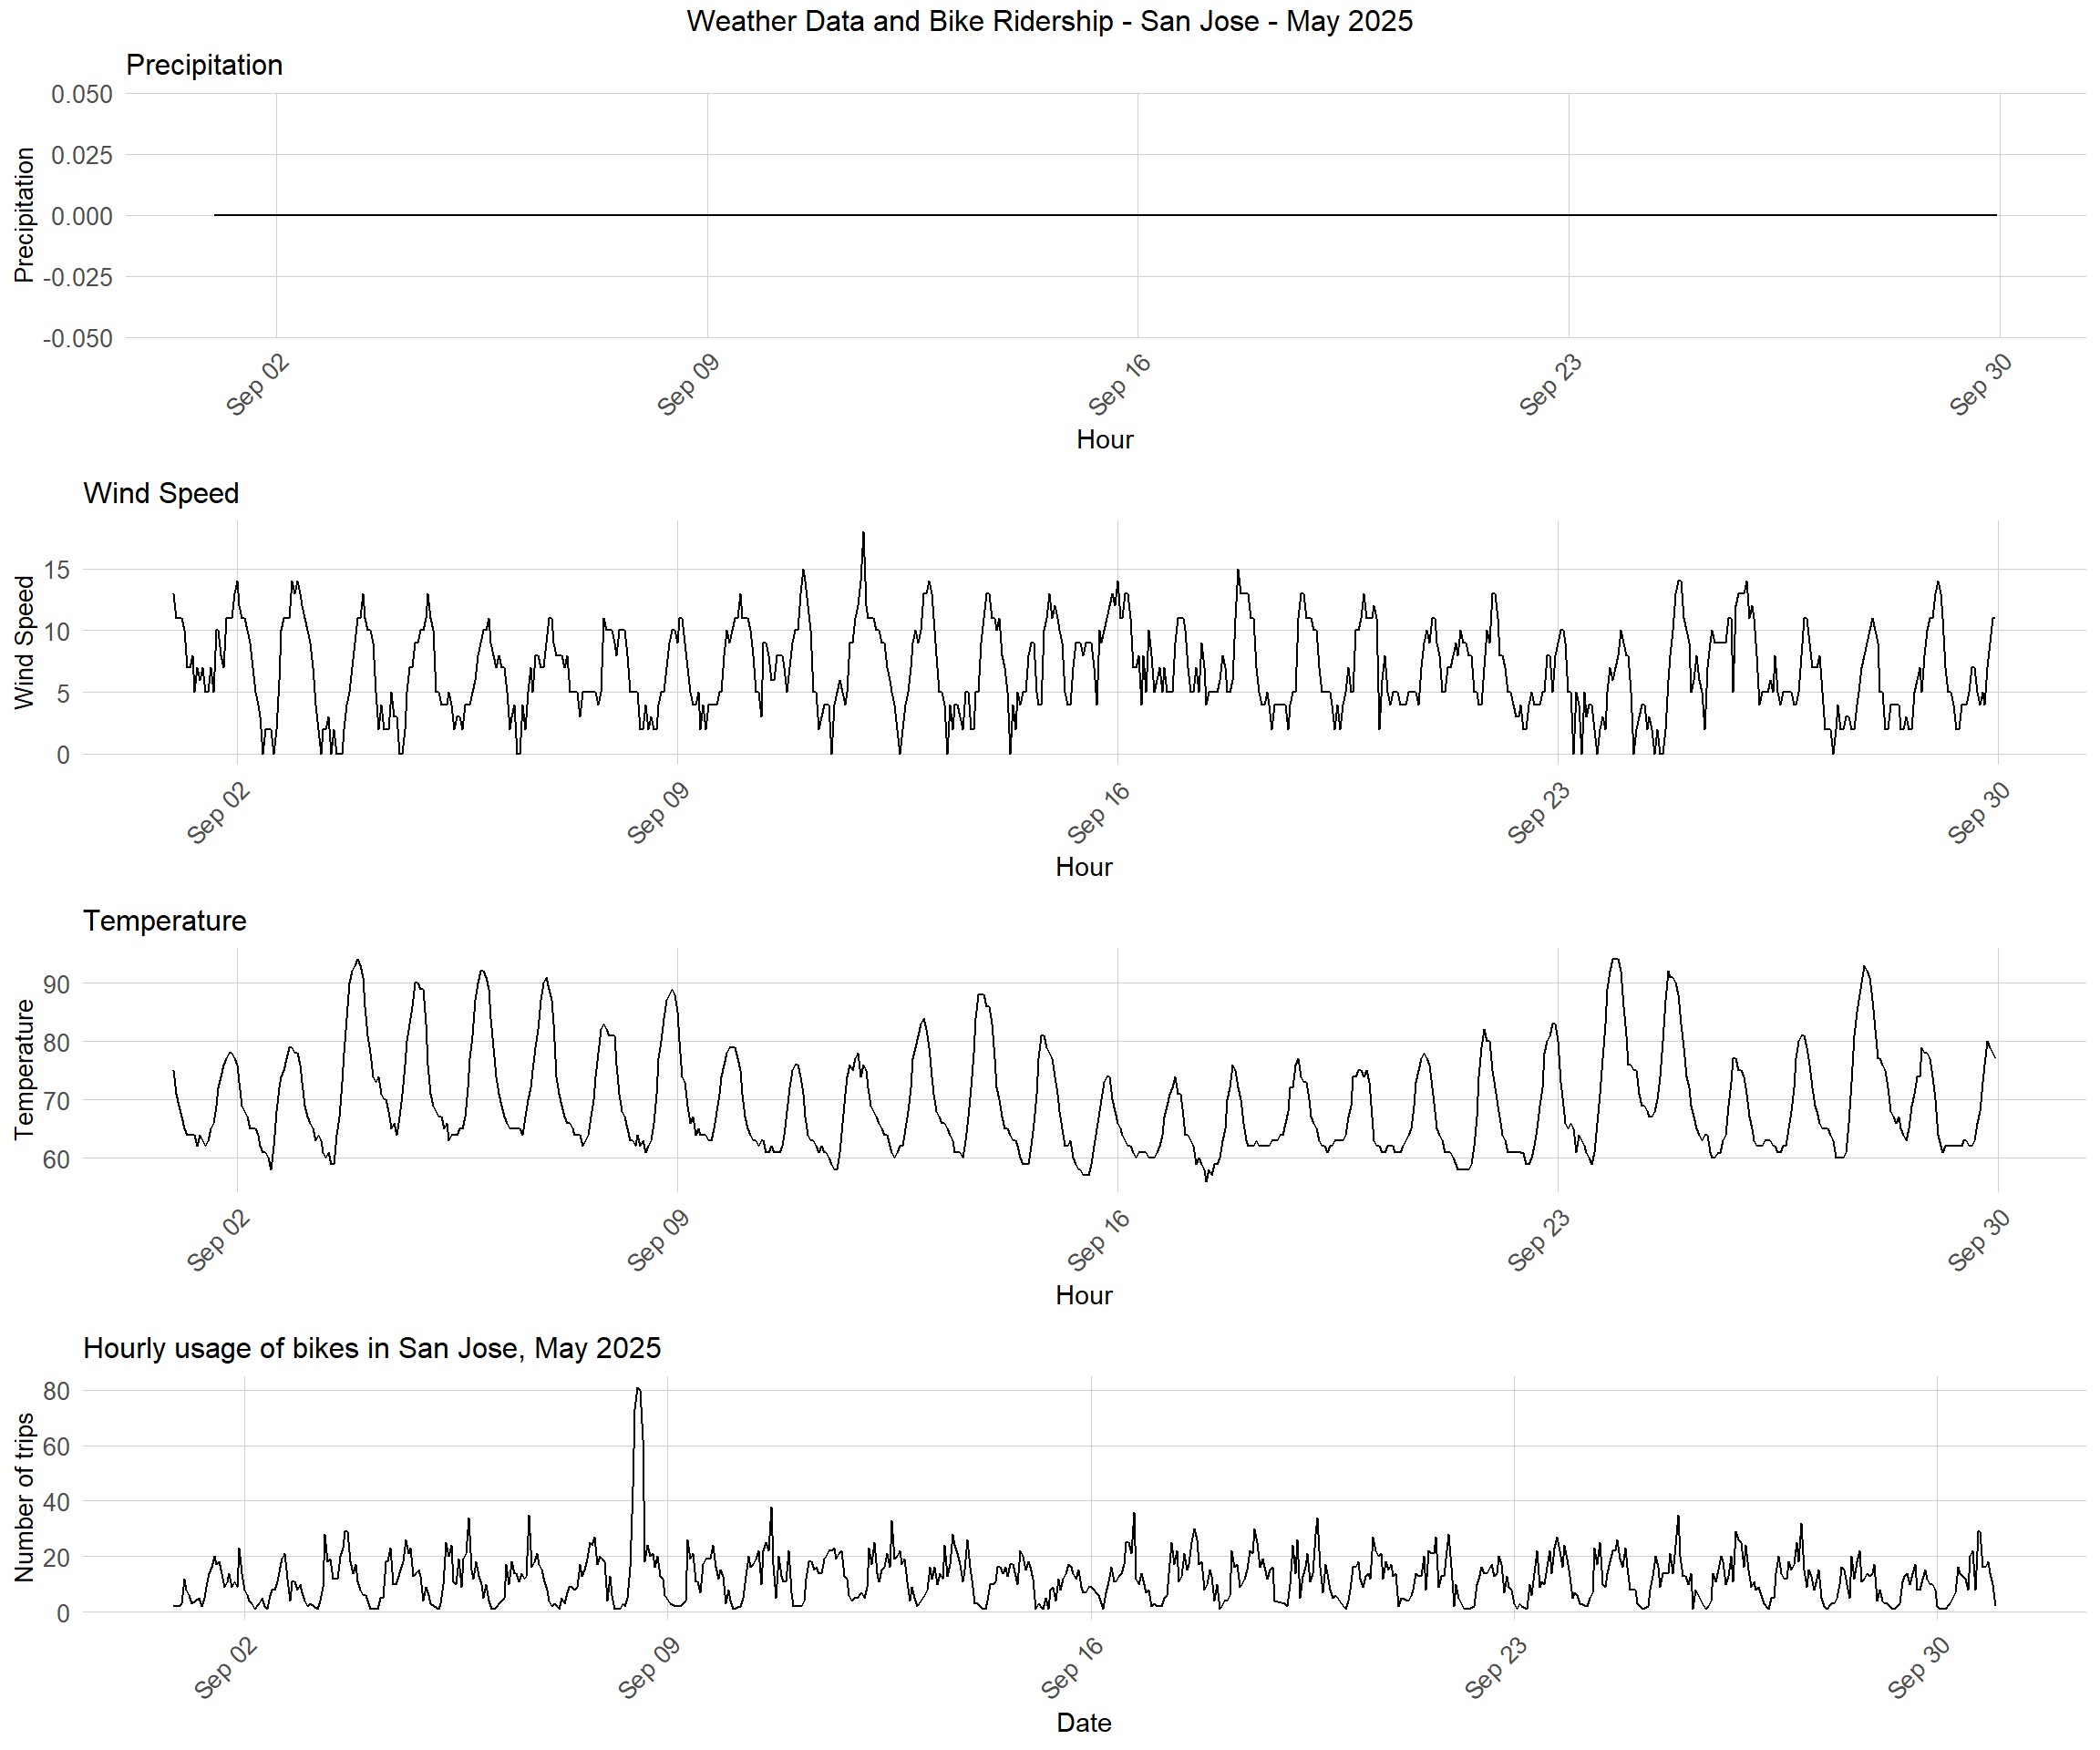
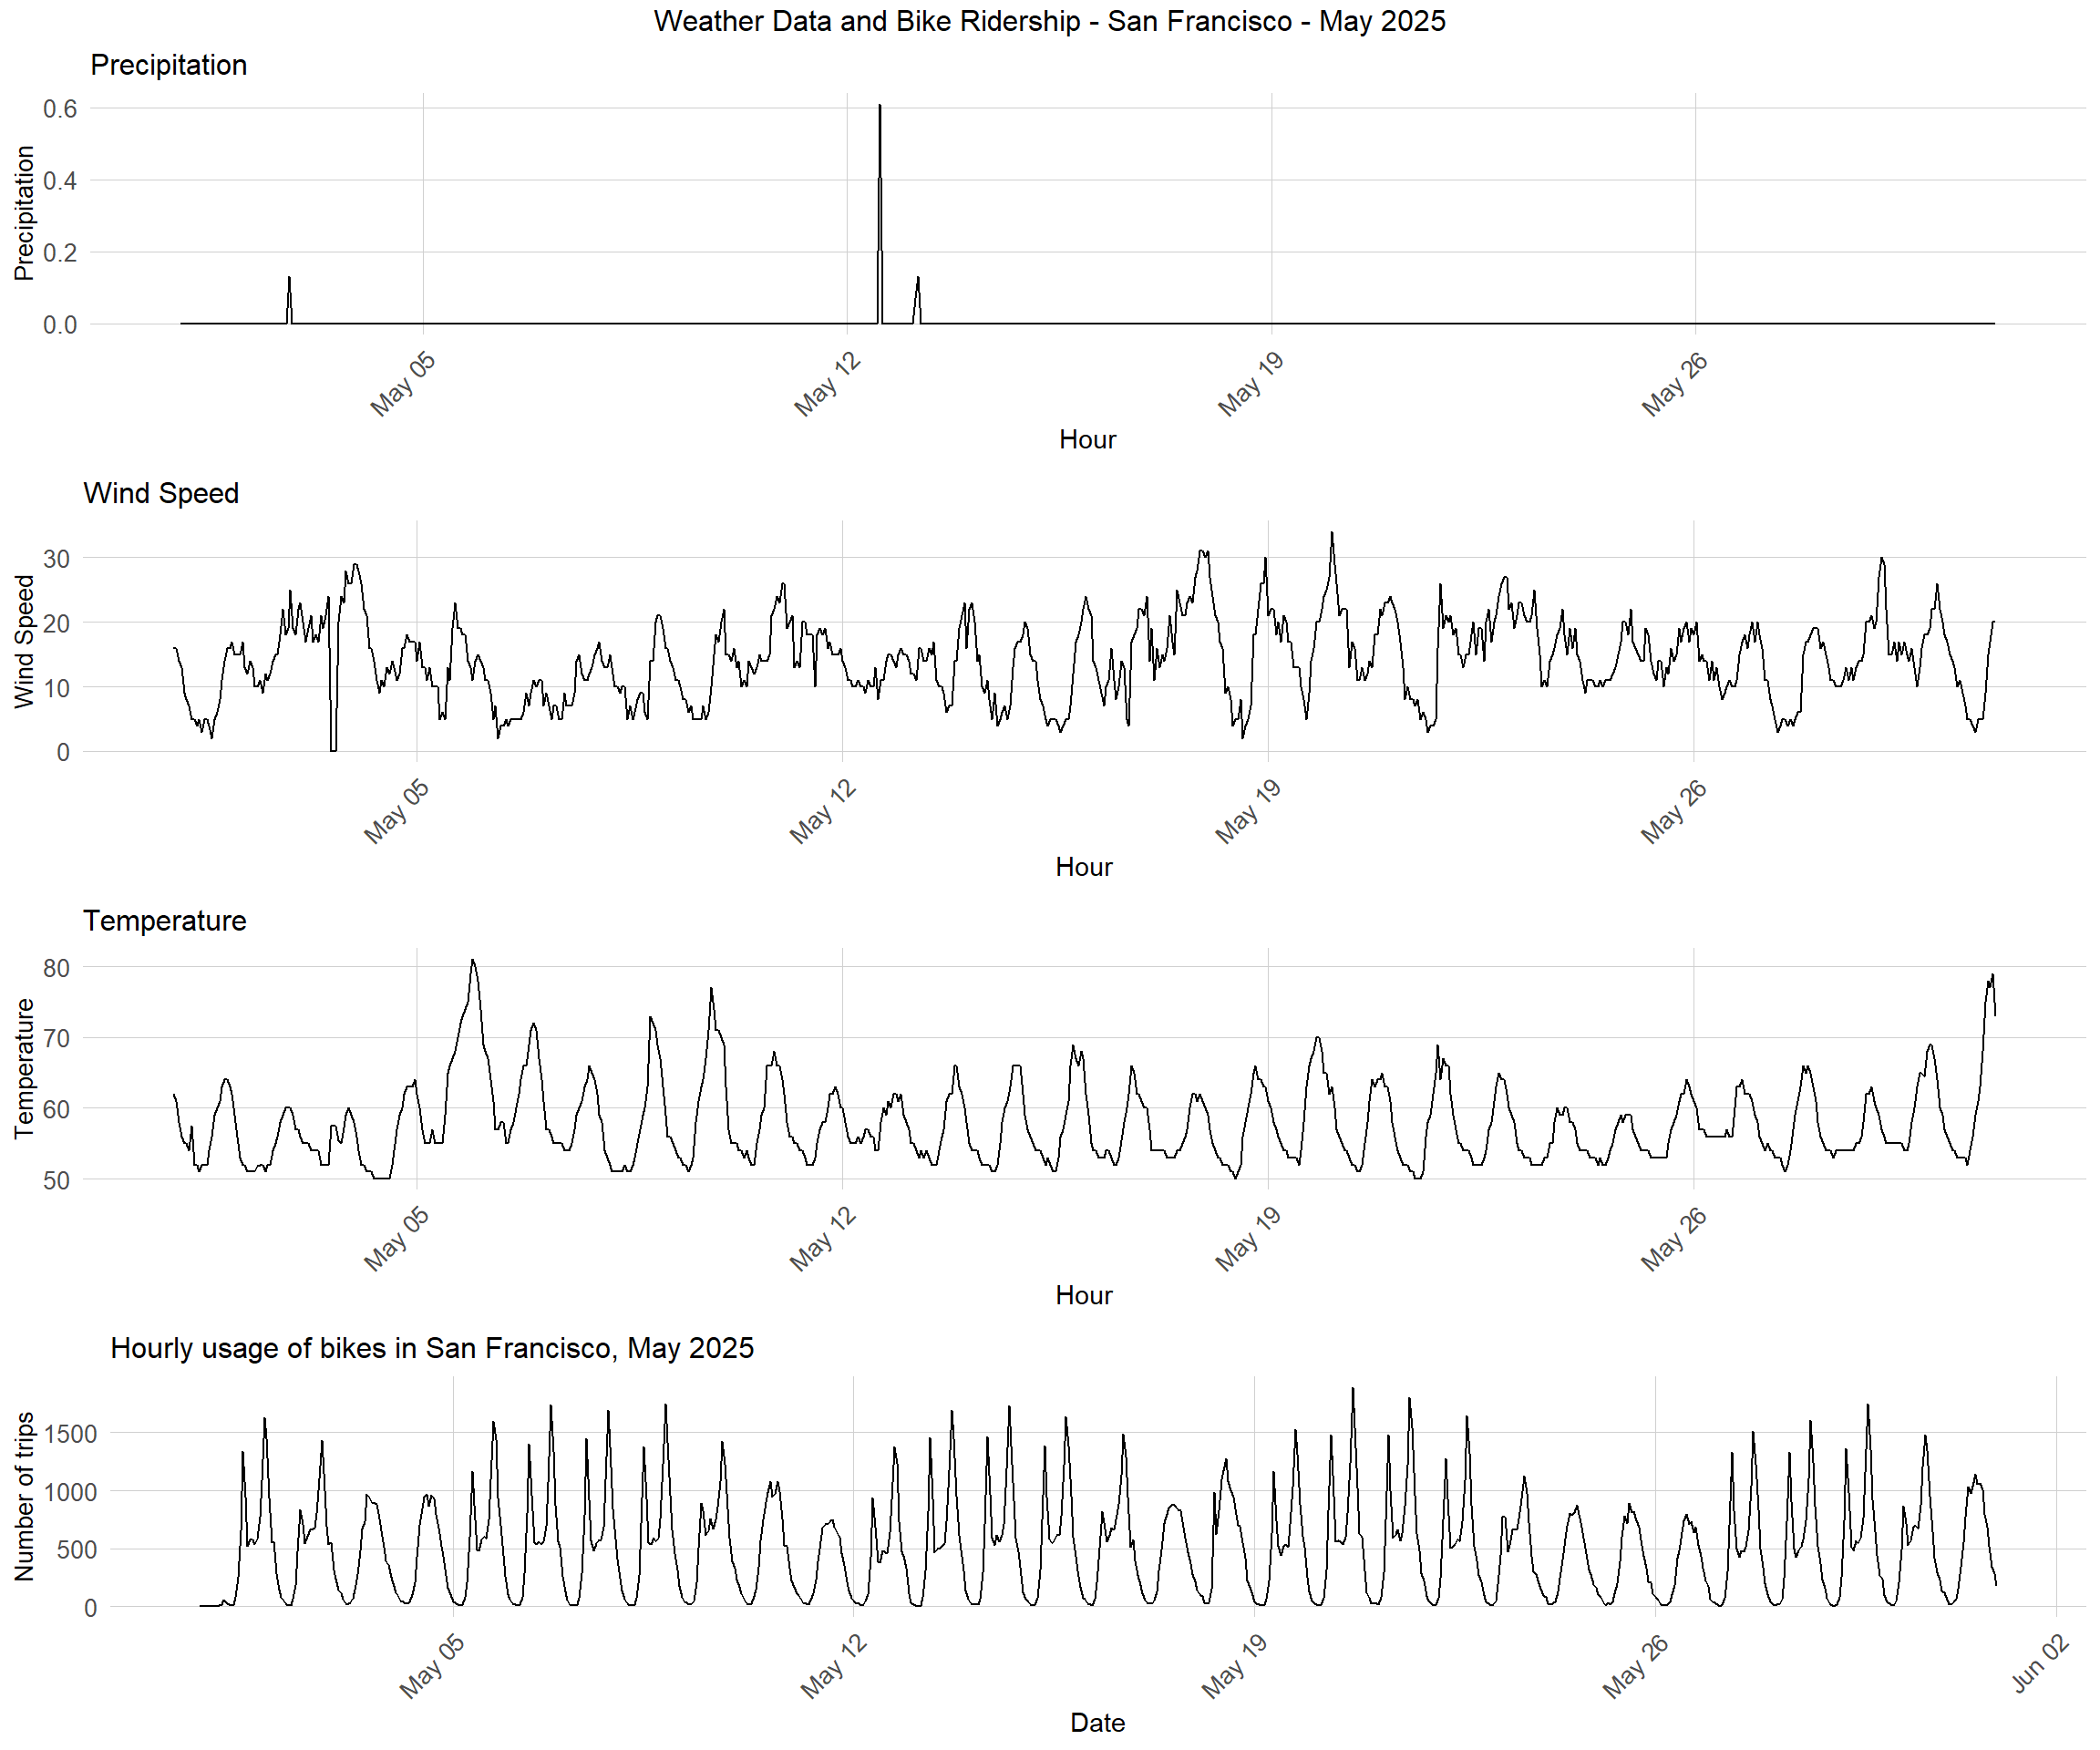
fixed errors in baywheels

diff --git a/baywheels.html b/baywheels.html
@@ -248,7 +248,7 @@
     
     <div class="map-img-wrap" style="margin-top:1.75rem">
       <img src="images/baywheels/threegrid.png">
-      <div class="map-cap">Trip density, San Francisco (left) · San Jose (centre) · East Bay (right)</div>
+      <div class="map-cap">Trip density with stations, San Francisco (left) · San Jose (centre) · East Bay (right)</div>
     </div>
   </div>
 </div>
@@ -454,23 +454,23 @@
       <div class="rec-cell">
         <div class="rec-city">San Francisco</div>
         <div class="rec-tag">Moderate last-mile · High variability</div>
-        <div class="rec-item"><strong>Bundled transit pricing.</strong> Integrated Clipper + Bay Wheels pricing to reduce friction between the two systems.</div>
-        <div class="rec-item"><strong>Event discovery.</strong> Deploy valets at Outside Lands and Pride to convert casual users to committed members.</div>
-        <div class="rec-item"><strong>Non-transit framing.</strong> In non-transit SF neighbourhoods, lean into recreational use rather than forcing a last-mile framing the data doesn't support.</div>
+        <div class="rec-item"><strong>Bundled transit pricing.</strong> Integrate Clipper + Bay Wheels fares.</div>
+        <div class="rec-item"><strong>Event discovery.</strong> Valet stations at Outside Lands and Pride to convert casuals.</div>
+        <div class="rec-item"><strong>Non-transit framing.</strong> Market recreational use outside transit corridors.</div>
       </div>
       <div class="rec-cell">
         <div class="rec-city">San Jose</div>
         <div class="rec-tag">High last-mile near transit · Near-zero elsewhere</div>
-        <div class="rec-item"><strong>Subsidised Clipper rates</strong> covering both VTA and Bay Wheels for low-income transit-dependent residents.</div>
-        <div class="rec-item"><strong>Trail integration</strong> along Guadalupe River Trail and the Silicon Valley bike superhighway, now state-funded.</div>
-        <div class="rec-item"><strong>Viva Calle pop-ups.</strong> The Sept 8 single-day spike confirms event-based expansion is the entry point for new users in San Jose.</div>
+        <div class="rec-item"><strong>Subsidised Clipper rates</strong> for transit-dependent, low-income residents.</div>
+        <div class="rec-item"><strong>Trail integration</strong> along Guadalupe River Trail and the state-funded bike superhighway.</div>
+        <div class="rec-item"><strong>Viva Calle pop-ups.</strong> Events are the entry point for new San Jose users.</div>
       </div>
       <div class="rec-cell">
         <div class="rec-city">East Bay</div>
         <div class="rec-tag">High last-mile near transit · Moderate elsewhere</div>
-        <div class="rec-item"><strong>E-bike transfer incentives.</strong> Clipper discounts for riders transferring from BART to e-bikes extend the effective service radius.</div>
-        <div class="rec-item"><strong>Slow-street corridor stations</strong> in Berkeley to capture non-transit last-mile demand that exists nowhere else in the Bay Area.</div>
-        <div class="rec-item"><strong>Festival-based expansion.</strong> East Bay Bike Party and local slow-street events are natural pop-up station venues.</div>
+        <div class="rec-item"><strong>E-bike transfer incentives.</strong> Clipper discounts for BART-to-bike transfers.</div>
+        <div class="rec-item"><strong>Slow-street stations</strong> in Berkeley to capture non-transit demand.</div>
+        <div class="rec-item"><strong>Festival-based expansion.</strong> Bike Party and slow-street events as pop-up venues.</div>
       </div>
     </div>
   </div>
@@ -479,9 +479,9 @@
   <p class="sec-lbl">Potential next steps</p>
   <h2 class="sec-h">What this analysis opens up</h2>
   <div class="next-grid">
-    <div class="next-cell"><div class="next-title">SF: Event valet analysis</div><div class="next-body">Study valet station performance at Outside Lands and Pride to guide future deployment, including whether valets create lasting membership conversion.</div></div>
-    <div class="next-cell"><div class="next-title">SJ and East Bay: Station placement</div><div class="next-body">Analyse proximity to parks, restaurants, and trails to identify high foot/bike activity zones for new end-to-end station placements beyond the transit core.</div></div>
-    <div class="next-cell"><div class="next-title">All cities: Protected bike lanes</div><div class="next-body">Evaluate the relationship between protected lane coverage and ridership to build the investment case for infrastructure improvements across all three cities.</div></div>
+    <div class="next-cell"><div class="next-title">SF: Event valet analysis</div><div class="next-body">Measure valet performance at Outside Lands and Pride, and whether it drives lasting membership conversion.</div></div>
+    <div class="next-cell"><div class="next-title">SJ and East Bay: Station placement</div><div class="next-body">Map proximity to parks, restaurants, and trails to site new stations beyond the transit core.</div></div>
+    <div class="next-cell"><div class="next-title">All cities: Protected bike lanes</div><div class="next-body">Link protected lane coverage to ridership to build the case for infrastructure investment.</div></div>
   </div>
 </div>
 <hr class="div">

diff --git a/index.html b/index.html
@@ -536,14 +536,14 @@
       <p class="hero-sub">
         I work at the intersection of geospatial analysis, urban policy, and data design, 
         translating complex city systems into clear findings that decision-makers can act on.
-        My work spans mobility, food equity, and civic technology across the US and beyond.
+        My work spans climate resilience, mobility, food equity, and civic technology across the US and beyond.
       </p>
       <div class="hero-meta">
         <div class="hm"><strong>MCP</strong> University of Pennsylvania </div>
-        <div class="hm"><strong>Background</strong> Design + Architecture + GIS</div>
+        <div class="hm"><strong>Education </strong> Planning + Architecture + Design </div>
         <div class="hm"><strong>Tools</strong> R · Python · ArcGIS</div>
         <div class="hm"><strong>Analyst at</strong> Climate Policy Initiative </div>
-        <div class="hm"><strong>Collaborated with</strong> Lyft Urban Solutions · Ocean Conservancy · World Resources Institute </div>
+        <div class="hm"><strong> Presented to </strong> Lyft Urban Solutions · Ocean Conservancy · World Resources Institute </div>
       </div>
     </div>
     <div class="hero-scroll">Scroll</div>
@@ -737,8 +737,8 @@
       <div>
         <div class="about-bio">
           <p>
-            I'm an urban data strategist and geospatial analyst based in San Francisco, with a background in 
-            <strong>architecture and a Master of City Planning from Penn.</strong> I came to data through cities, 
+            I'm an urban data strategist and geospatial analyst based in San Francisco,  
+            <strong>with an undergrad in architecture and a Master of City Planning from Penn.</strong> I came to data through cities, 
             which means I approach spatial analysis with an understanding of how urban systems actually work, 
             not just how to model them.
           </p>